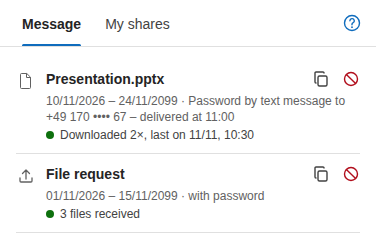
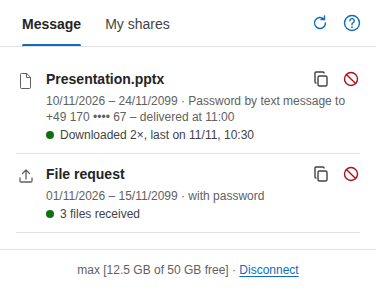
Link tabs: refresh button in the tab bar, account line at the bottom (#52)
* Link tabs: refresh button in the tab bar, account line at the bottom

- "Aktualisieren" (⟳) next to the "?" reloads the link list; shown only on
  "Nachricht" and "Meine Freigaben", disabled while loading. Loading with
  the tab and on focus stays.
- "Nachricht" and "Meine Freigaben" get the same sticky account line as
  "Senden": Nextcloud user, free space, "Verbindung trennen" – also when
  reading a mail. All account lines are filled together, every
  disconnect link works.

* README pictures: refresh button and account line on the link tabs

---------

diff --git a/addin/src/taskpane/taskpane.ts b/addin/src/taskpane/taskpane.ts
@@ -73,6 +73,7 @@ const expireHint = $<HTMLParagraphElement>("expire-hint");
 const tabSend = $<HTMLButtonElement>("tab-send");
 const tabShares = $<HTMLButtonElement>("tab-shares");
 const tabMail = $<HTMLButtonElement>("tab-mail");
+const refreshSharesButton = $<HTMLButtonElement>("refresh-shares");
 const panelMail = $<HTMLDivElement>("panel-mail");
 const helpToggle = $<HTMLButtonElement>("help-toggle");
 const helpClose = $<HTMLButtonElement>("help-close");
@@ -196,7 +197,10 @@ function showConnection(status: ConnectionStatus) {
   connectView.hidden = status.connected;
   sendView.hidden = !status.connected;
   connectHint.hidden = true;
-  accountText.textContent = `${status.loginName ?? ""}${storageText(status)}`;
+  // The account line at the bottom of every tab ("Senden", "Nachricht", "Meine Freigaben").
+  const account = `${status.loginName ?? ""}${storageText(status)}`;
+  accountText.textContent = account;
+  document.querySelectorAll<HTMLElement>(".account-name").forEach((line) => (line.textContent = account));
   applyPasswordPolicy(status.passwordEnforced === true);
   // Reading a mail: the list is all there is – load it as soon as the connection is there (also right after connecting).
   if (readMode && status.connected) loadShares().catch((err) => setStatus(errorMessage(err), "error"));
@@ -273,7 +277,7 @@ connectButton.addEventListener("click", async () => {
   }
 });
 
-$<HTMLAnchorElement>("disconnect").addEventListener("click", async (e) => {
+async function disconnect(e: Event) {
   e.preventDefault();
   try {
     await api("/api/nextcloud/connection", { method: "DELETE" }, await getToken());
@@ -282,7 +286,9 @@ $<HTMLAnchorElement>("disconnect").addEventListener("click", async (e) => {
   } catch (err) {
     setStatus(t("disconnect.failed", { error: errorMessage(err) }), "error");
   }
-});
+}
+// "Trennen" in the account line of every tab.
+document.querySelectorAll<HTMLAnchorElement>(".disconnect-link").forEach((link) => link.addEventListener("click", disconnect));
 
 // --- File lists ------------------------------------------------------------------
 
@@ -1411,6 +1417,8 @@ function showHelp(open: boolean) {
   panelSend.hidden = open || currentTab !== "send";
   panelMail.hidden = open || currentTab !== "mail";
   panelShares.hidden = open || currentTab !== "shares";
+  // "Aktualisieren" only where there is a link list to reload.
+  refreshSharesButton.hidden = open || currentTab === "send";
 }
 
 tabSend.addEventListener("click", () => selectTab("send"));
@@ -1424,6 +1432,16 @@ helpToggle.addEventListener("click", () => {
 helpClose.addEventListener("click", () => {
   showHelp(false);
   helpToggle.focus();
+});
+refreshSharesButton.addEventListener("click", () => {
+  refreshSharesButton.disabled = true;
+  refreshSharesButton.setAttribute("aria-busy", "true");
+  loadShares()
+    .catch((err) => setStatus(errorMessage(err), "error"))
+    .then(() => {
+      refreshSharesButton.disabled = false;
+      refreshSharesButton.removeAttribute("aria-busy");
+    });
 });
 
 // --- My shares ("Meine Freigaben") -----------------------------------------------------

diff --git a/addin/src/taskpane/taskpane.html b/addin/src/taskpane/taskpane.html
@@ -37,6 +37,13 @@
             <button type="button" role="tab" id="tab-mail" class="tab" title="%%t:addin.tabs.mail%%" aria-selected="false" aria-controls="panel-mail" hidden>%%t:addin.tabs.mail%%</button>
             <button type="button" role="tab" id="tab-shares" class="tab" title="%%t:addin.tabs.shares%%" aria-selected="false" aria-controls="panel-shares">%%t:addin.tabs.shares%%</button>
           </div>
+          <!-- Reloads the link lists; only on "Nachricht" and "Meine Freigaben" (selectTab). -->
+          <button type="button" id="refresh-shares" class="btn btn-icon btn-subtle tabbar-action" title="%%t:addin.shares.refresh%%"
+            aria-label="%%t:addin.shares.refresh%%" hidden>
+            <svg class="icon" viewBox="0 0 20 20" aria-hidden="true">
+              <path d="M15.5 10a5.5 5.5 0 1 1-1.6-3.9M14.5 3v3.5H11" fill="none" stroke="currentColor" stroke-width="1.4" stroke-linecap="round" stroke-linejoin="round"/>
+            </svg>
+          </button>
           <!-- User guide: opens in place of the current tab, the same button or "×" closes it. -->
           <button type="button" id="help-toggle" class="btn btn-icon btn-subtle help-toggle" title="%%t:addin.help.button%%"
             aria-label="%%t:addin.help.button%%" aria-expanded="false" aria-controls="panel-help">
@@ -54,6 +61,10 @@
             <div id="mail-shares" class="share-list" aria-live="polite"></div>
             <p class="caption" id="mail-none" hidden>%%t:addin.read.none%%</p>
           </div>
+          <!-- Account line as in "Senden": Nextcloud user, free space, disconnect (filled by showConnection). -->
+          <footer class="footer">
+            <p class="caption account"><span class="account-name"></span> · <a href="#" class="disconnect-link">%%t:addin.disconnect.link%%</a></p>
+          </footer>
         </div>
 
         <div id="panel-shares" class="panel" role="tabpanel" aria-labelledby="tab-shares" hidden>
@@ -61,6 +72,9 @@
             <div id="shares" class="share-list" aria-live="polite"></div>
             <p class="caption" id="no-shares" hidden>%%t:addin.shares.none%%</p>
           </div>
+          <footer class="footer">
+            <p class="caption account"><span class="account-name"></span> · <a href="#" class="disconnect-link">%%t:addin.disconnect.link%%</a></p>
+          </footer>
         </div>
 
         <div id="panel-send" class="panel" role="tabpanel" aria-labelledby="tab-send">
@@ -227,7 +241,7 @@
           <div class="progress" id="progress" hidden><div class="progress-bar" id="progress-bar"></div></div>
           <button type="button" id="submit" class="btn btn-primary btn-block">%%t:addin.submit.button%%</button>
           <p class="caption account">
-            <span id="account"></span> · <a href="#" id="disconnect">%%t:addin.disconnect.link%%</a>
+            <span id="account" class="account-name"></span> · <a href="#" id="disconnect" class="disconnect-link">%%t:addin.disconnect.link%%</a>
           </p>
         </footer>
         </div>

diff --git a/addin/e2e/taskpane.e2e.ts b/addin/e2e/taskpane.e2e.ts
@@ -920,10 +920,24 @@ test("Meine Freigaben: shows the state of each link and revokes after confirmati
   const calls = await openTaskpane(page, { shares: SHARES });
   await page.click("#tab-shares");
   const rows = page.locator("#shares .share");
-  // All valid links, no expired one ("Alt.zip"), no refresh button and no "last 30 days".
+  // All valid links, no expired one ("Alt.zip"), no "last 30 days".
   await expect(rows).toHaveCount(3);
   await expect(page.locator("#shares")).not.toContainText("Alt.zip");
-  await expect(page.locator("#refresh-shares")).toHaveCount(0);
+  // "Aktualisieren" in the tab bar reloads the list; on "Senden" there is none.
+  const loads = () => calls.filter((c) => c.path === "/api/shares").length;
+  const refresh = page.locator("#refresh-shares");
+  await expect(refresh).toBeVisible();
+  await expect(refresh).toHaveAttribute("aria-label", "Aktualisieren");
+  const before = loads();
+  await refresh.click();
+  await expect.poll(loads).toBe(before + 1);
+  await expect(refresh).toBeEnabled();
+  // The account line as in "Senden".
+  await expect(page.locator("#panel-shares .account-name")).toHaveText("max [12,5 GB von 50 GB frei]");
+  await expect(page.locator("#panel-shares .disconnect-link")).toHaveText("Verbindung trennen");
+  await page.click("#tab-send");
+  await expect(refresh).toBeHidden();
+  await page.click("#tab-shares");
   await expect(rows.nth(0).locator(".state-text")).toContainText("2× heruntergeladen");
   await expect(rows.nth(1).locator(".state-text")).toHaveText("Noch nicht heruntergeladen");
   await expect(rows.nth(2).locator(".state-text")).toHaveText("3 Dateien empfangen");
@@ -1069,6 +1083,10 @@ test("reading a mail: tabs 'Nachricht' and 'Meine Freigaben', nothing to insert"
   await expect(inMail.nth(0).locator(".share-password")).toContainText("zugestellt um");
   await expect(inMail.nth(1).locator(".share-name")).toHaveText("Upload-Link");
   await expect(page.locator("#mail-none")).toBeHidden();
+  // Reading a mail too: "Aktualisieren" in the tab bar, the account line at the bottom.
+  await expect(page.locator("#refresh-shares")).toBeVisible();
+  await expect(page.locator("#panel-mail .account-name")).toHaveText("max [12,5 GB von 50 GB frei]");
+  await expect(page.locator("#panel-mail .disconnect-link")).toBeVisible();
   await expect(page.locator(".share .insert").first()).toBeHidden(); // a mail being read cannot take a link
   await expect(page.locator("#panel-mail")).not.toContainText("Weitere Freigaben");
   await expectAccessible(page);

diff --git a/addin/src/taskpane/taskpane.css b/addin/src/taskpane/taskpane.css
@@ -122,6 +122,7 @@ a:hover { color: var(--brand-fg-hover); text-decoration: underline; }
   border-top: 1px solid var(--stroke2);
 }
 .footer .account { margin-top: 8px; text-align: center; overflow-wrap: anywhere; }
+.footer .account:first-child { margin-top: 0; } /* "Nachricht" / "Meine Freigaben": only the account line */
 
 .empty-state { display: flex; flex-direction: column; align-items: center; gap: 12px; padding: 40px 24px; text-align: center; }
 .empty-icon { width: 48px; height: 48px; color: var(--brand-fg); }
@@ -444,7 +445,7 @@ a:hover { color: var(--brand-fg-hover); text-decoration: underline; }
 /* The "?" at the right of the tab row opens the guide in place of the current tab. */
 .tabbar { display: flex; align-items: stretch; border-bottom: 1px solid var(--stroke2); padding-right: 8px; }
 .tabbar .tabs { flex: 1; min-width: 0; border-bottom: 0; }
-.help-toggle { align-self: center; margin: 0; color: var(--fg2); }
+.help-toggle, .tabbar-action { align-self: center; margin: 0; color: var(--fg2); }
 .help-toggle[aria-expanded="true"] { background: var(--bg1-pressed); color: var(--brand-fg); }
 .help-header { display: flex; align-items: center; justify-content: space-between; gap: 8px; margin: 2px 0 6px; }
 .help-header .btn-subtle { margin: 0 -6px 0 0; }

diff --git a/CLAUDE.md b/CLAUDE.md
@@ -22,7 +22,7 @@ One container serves everything behind Caddy:
 - Nextcloud does not accept Entra tokens (typically it logs in via another IdP, e.g. Keycloak through `user_oidc`). Instead each user connects once via Nextcloud Login Flow v2; the resulting app password is stored AES-256-GCM-encrypted per Entra `oid` in `/data` (`credentials.ts`, key `CREDENTIAL_KEY`) and used as Basic auth. A 401 from Nextcloud deletes the stored credential and returns error code `NEXTCLOUD_NOT_CONNECTED`, which makes the taskpane show the connect view.
 - Nextcloud access is server-to-server (no CORS on Nextcloud): WebDAV chunked upload v2 + OCS share API (`nextcloud.ts`). Nextcloud-reported URLs are rewritten onto `NEXTCLOUD_URL`. Vaultwarden Sends are created through `bw serve` running in the same container on 127.0.0.1:8087 with a service account (`vaultwarden.ts`). Upload/job/pending-login state is in-memory (`store.ts`) → single instance only.
 - `addin/` – XML manifest + taskpane (Nextcloud connect/disconnect, converts existing attachments via `getAttachmentContentAsync` → upload → `removeAttachmentAsync`, plus file picker (`window.showOpenFilePicker` first, hidden `<input type="file">` as fallback – classic Outlook's WebView did not reliably open the dialog for a file input; steps are traced with `CLIENT_TRACE`) and drag & drop onto the "Senden" tab for files beyond Outlook's limit – in classic Outlook the WebView2 file dialog sometimes opens behind the Outlook window; inserts links) + event handlers in `commands.ts`: `OnMessageAttachmentsChanged` shows an InsightMessage with a "open taskpane" action (add-ins cannot open the taskpane themselves), `OnMessageSend` runs with manifest `SendMode="SoftBlock"`; env `ATTACHMENT_POLICY` (served via `/api/config`, cached in `roamingSettings`) decides: `enforce` blocks large attachments before arming the password mail (no "Send anyway"), `suggest` arms the password mail first and relaxes to PromptUser via `sendModeOverride` (Mailbox 1.14). The taskpane mimics Outlook (Fluent 2 tokens, Office theme, Outlook wording "Nachricht"/"Kennwort") – keep new UI consistent with that. Bundled as IIFE because classic Outlook runs the handlers in a JavaScript-only runtime (no DOM, no ES modules); `commands.js` is built with target `es2016` and without `Headers`/`Promise.finally` (guarded by `addin/test/bundle.test.ts`); it registers its handlers immediately (classic) and again in `Office.onReady` (browser runtime: office.js loads `Office.actions` only after the script ran – `commands-load.test.ts`), and that runtime only allows SSO and fetch because the server serves `/.well-known/microsoft-officeaddins-allowed.json` listing `commands.js`.
-- Taskpane has two tabs: "Senden" and "Meine Freigaben" (`/api/shares`: all valid links, no refresh button – loaded with the tab and on focus; one row per link with icon buttons Kopieren/Kennwort/Einfügen/Zurückziehen next to the name (long names shortened in the middle, extension kept – `nameParts`) (`ICONS` in `taskpane.ts`, also filled into the help via `data-icon`) and one meta line "period · password"; revoke via `DELETE /api/shares/:id`, `revokeShare` in `shares.ts`; links are created on insert, so links whose job has not been dispatched are marked `unsent` – a job that expires without ever being armed (draft discarded, `armedOnce: false`) gets its links revoked by the watcher via `onUnsentExpired`/`revokeUnsentLinks`); the "?" at the right of the tab row (`#help-toggle`, `showHelp`) shows "Hilfe" in place of the current tab – a user guide for everyday users, `<details>` sections with texts `help.*` in the language files (keep it in plain words and in step with the UI when features change). "Senden" starts with a switch (`kind` radios, `selectKind`/`renderKind` in `taskpane.ts`) between "Dateien" (attachments + drop zone), "Nachricht" ("Vertrauliche Nachricht" via `/api/messages` = a Vaultwarden text Send protected with the step password, never stored in Nextcloud) and "Anfordern" (upload link via `/api/requests`); only the chosen part is shown and the single footer button `#submit` names what it inserts (`renderSubmit`). Below: password, "Kennwort senden an" (`<select>`), and "Gültigkeit" collapsed behind a one-line summary (`renderValidity`). "Ohne Kennwort" is only offered for "Dateien" – prevent invalid choices in the UI rather than reporting them after the click. Read mode: the manifest also has a pinnable `MessageReadCommandSurface` button (plus legacy `ItemRead` form) opening `taskpane.html?view=read` (`readMode`, `startReadView`) – tabs "Nachricht" (`#tab-mail`/`#panel-mail`: the shares whose token (`/s/<token>`) appears in the read mail's body, `mailTokens`; selected again on `ItemChanged`, in place of "Senden") and "Meine Freigaben" (all valid links, as when writing); no server-side mail↔share mapping, no new permissions. A manifest change needs a new `<Version>`. Links are inserted as an email-safe HTML card (`addin/src/taskpane/mailCard.ts`, tables + inline styles, optional `MAIL_FOOTER` template filled from the sender's profile via `/api/profile`, see `footer.ts`).
+- Taskpane has two tabs: "Senden" and "Meine Freigaben" (`/api/shares`: all valid links, loaded with the tab, on focus and by `#refresh-shares` in the tab bar (only on the link tabs); the account line (`.account-name`, `.disconnect-link`) is at the bottom of every tab; one row per link with icon buttons Kopieren/Kennwort/Einfügen/Zurückziehen next to the name (long names shortened in the middle, extension kept – `nameParts`) (`ICONS` in `taskpane.ts`, also filled into the help via `data-icon`) and one meta line "period · password"; revoke via `DELETE /api/shares/:id`, `revokeShare` in `shares.ts`; links are created on insert, so links whose job has not been dispatched are marked `unsent` – a job that expires without ever being armed (draft discarded, `armedOnce: false`) gets its links revoked by the watcher via `onUnsentExpired`/`revokeUnsentLinks`); the "?" at the right of the tab row (`#help-toggle`, `showHelp`) shows "Hilfe" in place of the current tab – a user guide for everyday users, `<details>` sections with texts `help.*` in the language files (keep it in plain words and in step with the UI when features change). "Senden" starts with a switch (`kind` radios, `selectKind`/`renderKind` in `taskpane.ts`) between "Dateien" (attachments + drop zone), "Nachricht" ("Vertrauliche Nachricht" via `/api/messages` = a Vaultwarden text Send protected with the step password, never stored in Nextcloud) and "Anfordern" (upload link via `/api/requests`); only the chosen part is shown and the single footer button `#submit` names what it inserts (`renderSubmit`). Below: password, "Kennwort senden an" (`<select>`), and "Gültigkeit" collapsed behind a one-line summary (`renderValidity`). "Ohne Kennwort" is only offered for "Dateien" – prevent invalid choices in the UI rather than reporting them after the click. Read mode: the manifest also has a pinnable `MessageReadCommandSurface` button (plus legacy `ItemRead` form) opening `taskpane.html?view=read` (`readMode`, `startReadView`) – tabs "Nachricht" (`#tab-mail`/`#panel-mail`: the shares whose token (`/s/<token>`) appears in the read mail's body, `mailTokens`; selected again on `ItemChanged`, in place of "Senden") and "Meine Freigaben" (all valid links, as when writing); no server-side mail↔share mapping, no new permissions. A manifest change needs a new `<Version>`. Links are inserted as an email-safe HTML card (`addin/src/taskpane/mailCard.ts`, tables + inline styles, optional `MAIL_FOOTER` template filled from the sender's profile via `/api/profile`, see `footer.ts`).
 - Per-draft state lives in `item.sessionData` (`DraftState` in `shared/office.ts`: `jobId`, `password`, `noPassword`, `maxAccess`, `passwordTo` = other password recipient (job field, only that address gets the password mail), `separate` = one password and password mail per "Als Link einfügen" step (`step` ID per click, `PasswordJob.separate`), `links` = share tokens of inserted links; if none of them is left in the body, `releaseDraftIfLinksGone` drops job/password/tag – taskpane on focus and every 4 s while locked, send handler before arming; drafts without `links` are never released). All files of one mail share one password, one Vaultwarden Send and one password mail (or, with "Ohne Kennwort" – file links only, `noPassword: true` on `/complete` – no password, no Send; with `DOWNLOAD_NOTICE` a job without password (`PasswordJob.noPassword`, `noticeShares`) only waits for the sent mail to register the download confirmation; `DraftState.noPassword` + `jobId`). With "per SMS" the pane hides "Kennwort abrufbar"/"Kennwort-Link gültig für" and SMS steps get Sends with `SEND_MAX_EXPIRE_DAYS`; the backend appends to an existing job via `jobId` on `/complete` unless it was already dispatched. The password mail is sent only after the mail was really sent: the taskpane tags the draft with the Office.js custom property `cloudshareJob` (MAPI `cecp-<add-in ID>`, `ADDIN_ID` env must match the manifest `<Id>`), the send handler only arms the job (`/api/jobs/:id/arm`, stores a Graph token with Mail.Read(.Shared) + Mail.Send(.Shared); the handler passes a "From" that differs from the user so shared-mailbox "Sent Items" are searched too and the password mail uses the same sender), and `server/src/jobs.ts` polls "Sent Items" and then mails the actual recipients. Password channel per mail: recipients, `passwordTo` or `passwordSms` (seven.io, `sms.ts`, after sending, password read from the Send, webhook `/webhooks/seven`, status in `deliveries.ts`; `SMS_ALLOWED_COUNTRIES` limits the countries by calling code (`countries.ts` reads ISO codes, calling codes, German/English names and groups), `SMS_ALLOWED_NUMBERS`/`SMS_BLOCKED_NUMBERS` are regular expressions on the E.164 number (default blocks 0800/0900/0180; landlines allowed) – `smsNumberProblem` in `sms.ts` and `taskpane.ts`, the pane refuses such numbers while they are entered, the server on `PATCH`/resend and before every SMS; a failed SMS never falls back to another channel – the sender gets a note without password, `smsProblemMailHtml`; a refused SMS right away with the armed token, one reported later as not delivered only with `SMS_NOTICE` (app token; unset it follows `DOWNLOAD_NOTICE`, `envFlag` in `config.ts`)). Sends have two dates: recipients' access ("Kennwort-Link gültig für") and deletion = link expiry, so links with password last at most 30 days (Vaultwarden limit, `passwordLinkMaxDays`); `passwordRefs.ts` stores only the Send ID per sent step so the owner can see and resend the password ("Kennwort" in "Meine Freigaben", `/api/shares/:id/password[/send]`) until the links expire – CloudShare never stores passwords itself; optional `templates.json` (`templates.ts`, user → department → default) and download confirmation (`notices.ts`, app permission `Mail.Send`, `DOWNLOAD_NOTICE`) and upload notification (same module, `UPLOAD_NOTICE`: upload links are `StepShare.request` with `knownFiles`, registered as `kind: "upload"`, each pass mails the new files of the folder until the link expires); every mail CloudShare sends itself (password mail, download confirmation, SMS notes) uses `mailLayout.ts` – text, one card with an accent per kind (blue password, green downloaded, red problem), the line `mail.automatic`; keep new mails in that layout. Jobs persist encrypted in `/data/password-jobs.json`, the cleanup list of uploaded files (`cleanup.ts`, `CLEANUP_AFTER_DAYS`, deletes upload folders after link expiry) in `/data/cleanup.json` (`storage.ts` holds the shared AES-GCM + atomic-write helpers). No upload size cap except the user's Nextcloud quota (checked up front via OCS `cloud/user`, 507 → `NEXTCLOUD_QUOTA_EXCEEDED`).
 - Placeholders `%%PUBLIC_BASE_URL%%`, `%%PUBLIC_HOST%%`, `%%ENTRA_CLIENT_ID%%` in add-in files and manifest are replaced by `docker/entrypoint.sh` at container start (copied from `/app/public.tpl` to `/app/public`), so one image works for any environment. Then `server/src/index.ts` runs `localizePublic` (`i18n.ts`): the string marker `"%%CLOUDSHARE_I18N%%"` in the JS bundles becomes the `addin` texts as JSON, `%%t:…%%`/`%%LANG%%`/`%%LOCALE%%` in HTML and manifest the texts of `LANGUAGE` (English as fallback, own files/overrides from `/config/locales`, mounted from `env/config/` together with `templates.json`). Comments in these files must not contain `%%` (the smoke test fails on leftovers). UI tests and manifest validation localize via `addin/scripts/localize.mjs`; add-in unit tests load `locales/de.json` in `addin/test/setup.ts`. The backend also serves `/manifest.xml` for the M365 admin center.
 - Keep `docker/entrypoint.sh` LF-only (enforced by `.gitattributes`).

diff --git a/docs/architecture.md b/docs/architecture.md
@@ -358,7 +358,7 @@ Errors are `{ error, code? }` with a message in the configured language, shown i
 | `POST /api/uploads`, `PUT …/:id/chunks/:n`, `POST …/:id/complete`, `DELETE …/:id` | Chunked upload, share link |
 | `POST /api/requests` | Upload link ("Receive files from recipients") |
 | `POST /api/messages` | Confidential message: text → password-protected Vaultwarden Send, joins the mail's password job |
-| `GET /api/shares`, `DELETE /api/shares/:id`, `POST /api/shares/:id/link` | "My shares": list (all valid links, newest first, max. 100; no refresh button – loaded with the tab and when the pane regains focus), revoke, insert again; also the read mode (2.9) |
+| `GET /api/shares`, `DELETE /api/shares/:id`, `POST /api/shares/:id/link` | "My shares": list (all valid links, newest first, max. 100; loaded with the tab, when the pane regains focus and by the refresh button in the tab bar), revoke, insert again; also the read mode (2.9) |
 | `GET /api/shares/:id/password`, `POST /api/shares/:id/password/send` | The password of a sent link (owner only, until the link expires) and sending it again by SMS or password mail (2.10) |
 | `PATCH /api/jobs/:id` | Change `maxAccess` (updates the Send), `passwordTo` or `passwordSms` until the password went out |
 | `POST /api/jobs/:id/arm` | Arm the password mail (send handler); also reads the sender's name and department for the templates |

diff --git a/README.md b/README.md
@@ -119,7 +119,8 @@ Confidential messages and upload links always have a password, so "No password" 
 **"My shares"** lists all your valid CloudShare links, newest first – one short line each for the period
 ("10.11. – 24.11.2026"), the password (with / without, or how it went out: "Password by text message to … –
 delivered") and the downloads (or received files). It loads when you open the tab and again when you come back to
-the pane; expired links are not listed. A link is created when it is inserted; until its mail has been sent it says
+the pane; **Refresh** (⟳ next to the "?") reloads it at any time. Expired links are not listed. At the bottom, as in
+"Send": the Nextcloud account, its free space and "Disconnect". A link is created when it is inserted; until its mail has been sent it says
 **"Not sent"**. If the mail is never sent (draft discarded), CloudShare revokes the link after 7 days.
 
 The icons next to the name (their names show on hover and are explained in the help):
